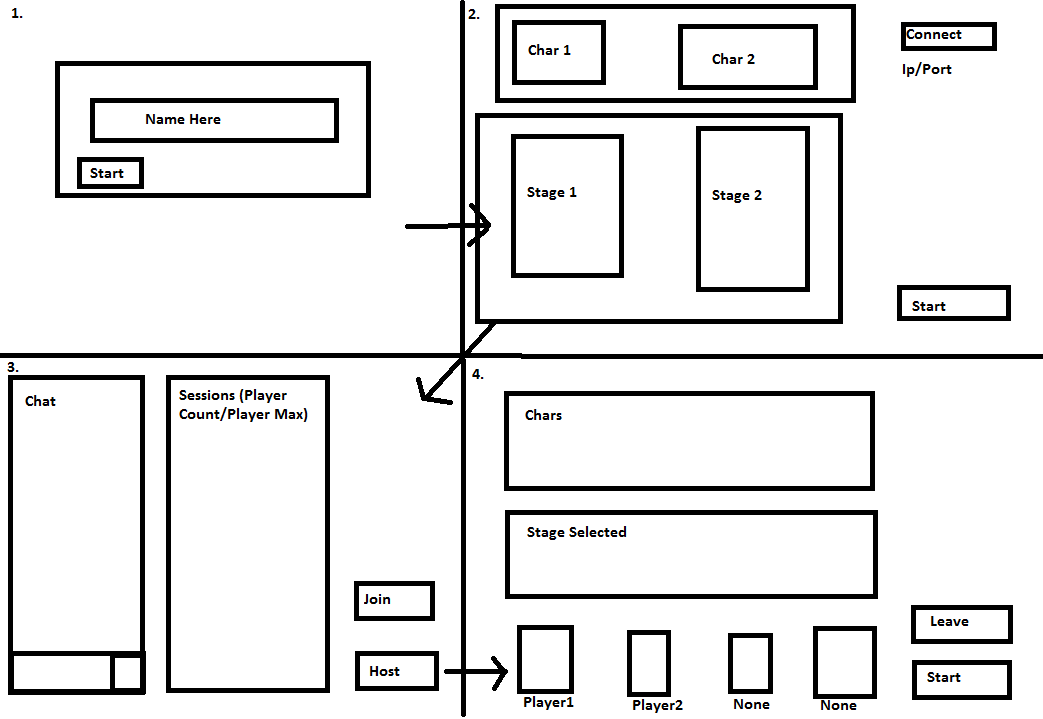
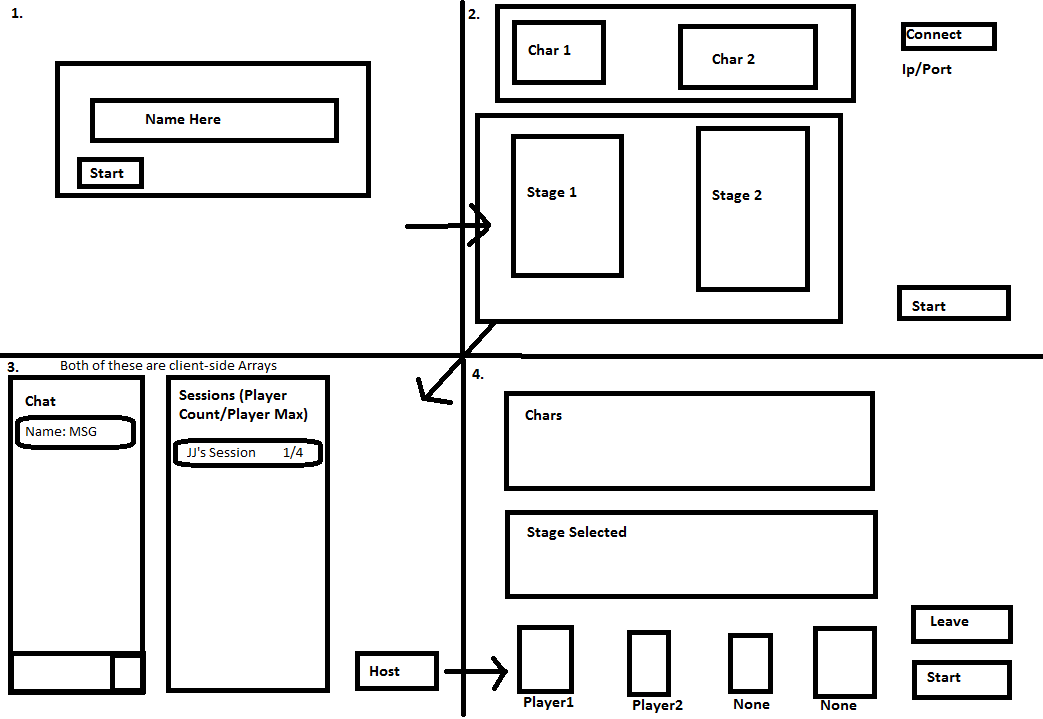
Editted storyboard, and implemented IP and Port box

diff --git a/game/client/menu.js b/game/client/menu.js
@@ -2,11 +2,14 @@
  * Last Updated on: 20/01/2017.
  */
 
+var ip = "127.0.0.1";
+var port = 44555;
+
 /*
-Very early menu implementation, Im not sure how to have 1 method for multiple button's it appears that
-adding an parameter to the 'actionOnClick' method forces it to be used without clicking, so this will
-have to do until I find a solution
- */
+    Very early menu implementation, Im not sure how to have 1 method for multiple button's it appears that
+    adding an parameter to the 'actionOnClick' method forces it to be used without clicking, so this will
+    have to do until I find a solution
+*/
 var menuState = {
     create: function() {
         nameLabel = game.add.text(10,10,'Hello, ' + playerName + ' Welcome to SmashVille!', {font:'30px Arial', fill:'#ffffff'});
@@ -88,10 +91,7 @@ var menuState = {
         var d = document.getElementById('ip-host');
         d.style.display = 'none';
 
-        var ip = document.getElementsByName('ip')[0].value;
-        var port = document.getElementsByName('port')[0].value
-
-        console.log(ip);
-        console.log(port);
+        ip = document.getElementsByName('ip')[0].value;
+        port = document.getElementsByName('port')[0].value
     }
 };

diff --git a/game/client/play.js b/game/client/play.js
@@ -26,8 +26,8 @@ var playState = {
         game.stage.disableVisibilityChange = true;
         // Server stuff
         //  Need to change IP and Port number depending on connection
-        // cmd -> ipconfig -> IPv4 address
-        socket = io.connect('127.0.0.1:44555');
+        console.log(ip + ":" + port);
+        socket = io.connect(ip + ":" + port);
         setEventHandlers();
     }, //preload();
 
